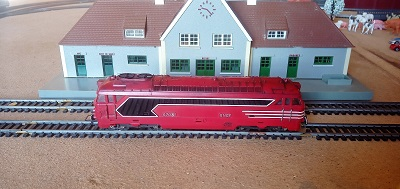
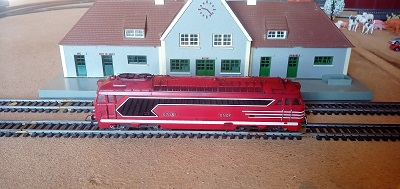
developpement

Changed region(s): [[0.24, 0.6085, 0.75, 0.6878]]

diff --git a/locomotives.html b/locomotives.html
@@ -139,7 +139,7 @@
 		<th>N° de série</th>
 		<td>67081</td>
 		<td>66150</td>
-		<td>9281</td>
+		<td>9241</td>
 		<td>40101</td>
 	</tr>
 	<tr>
